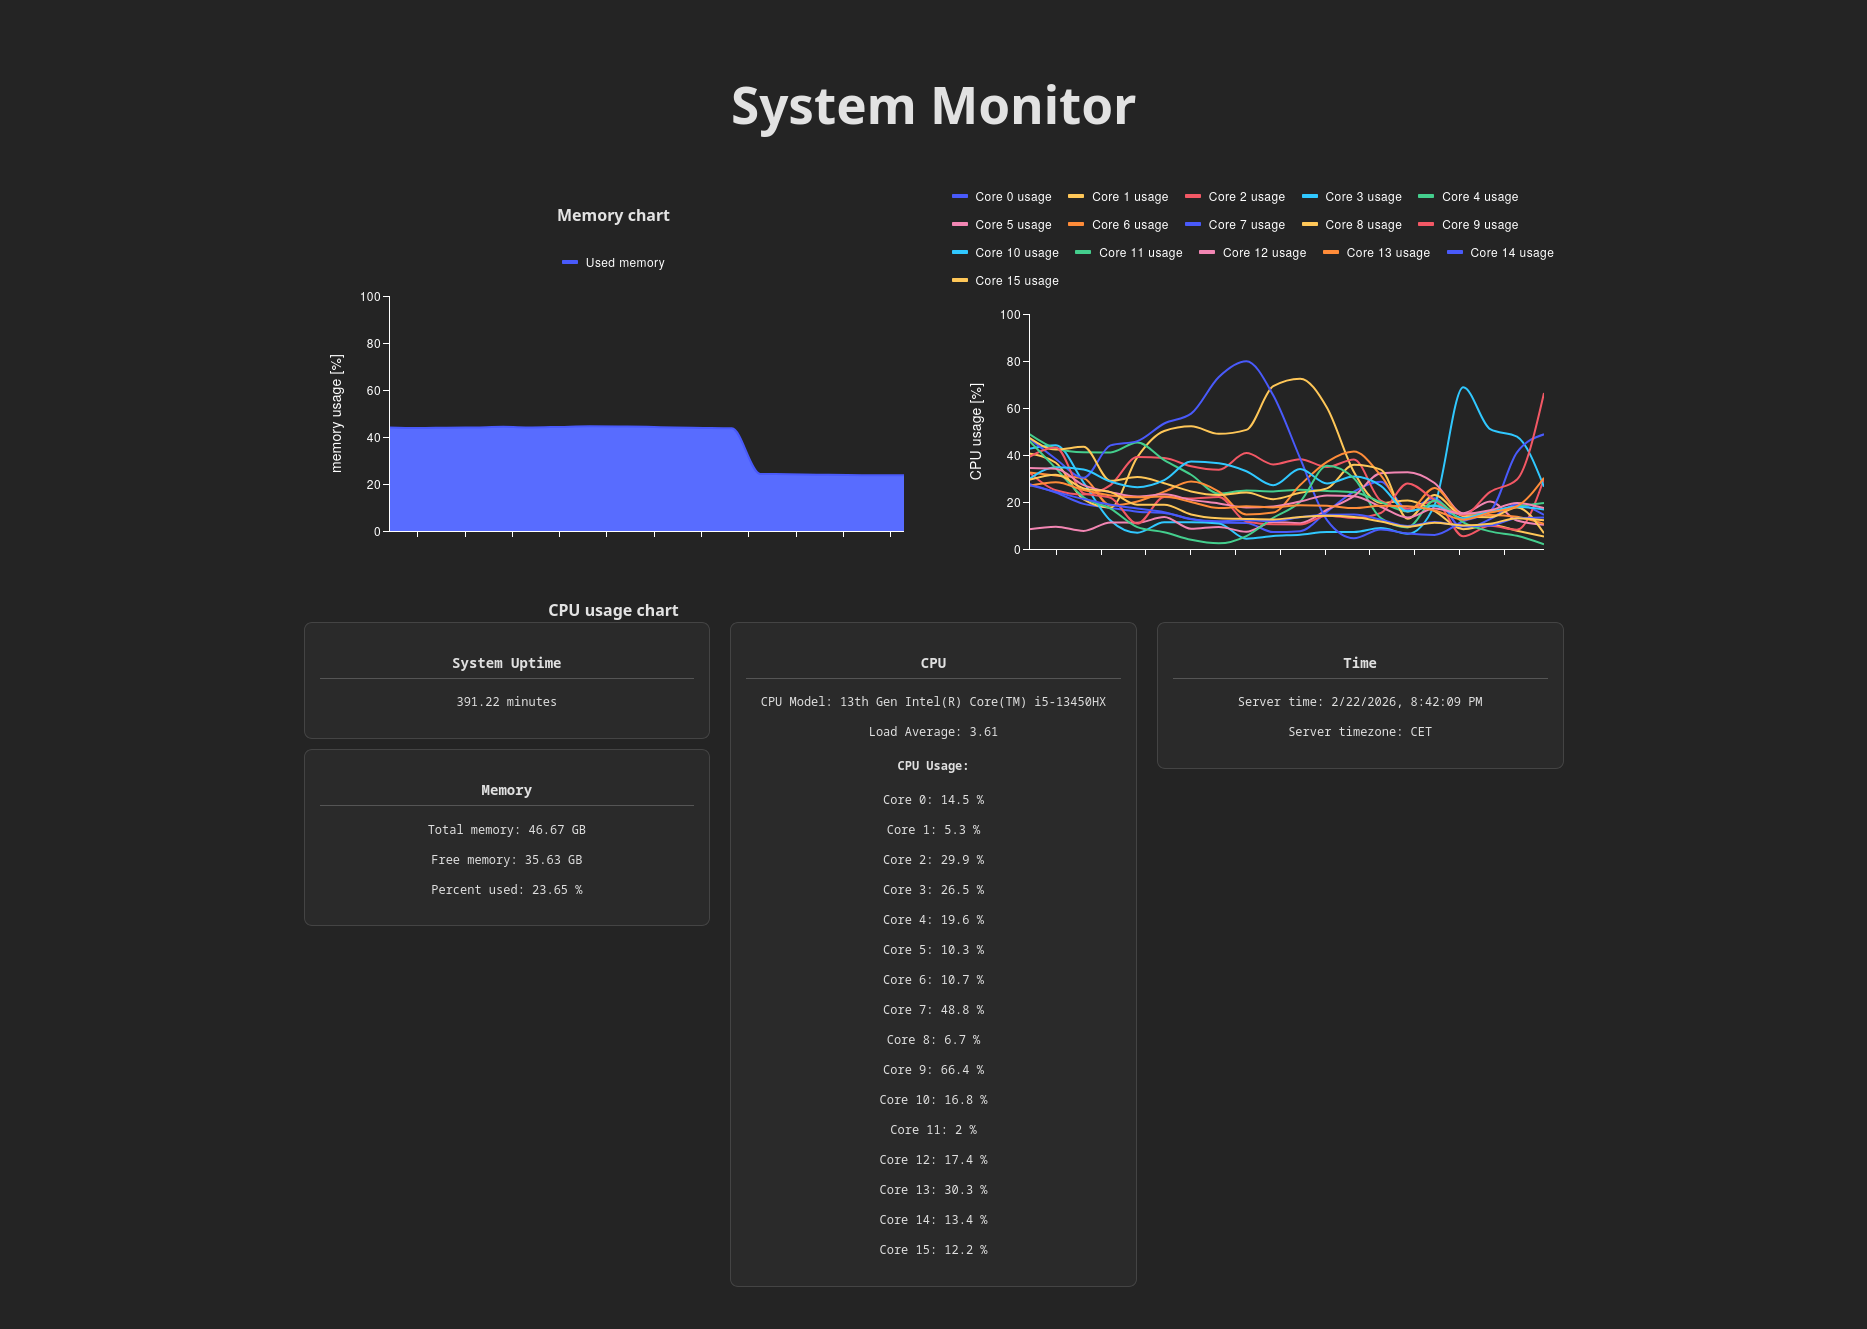
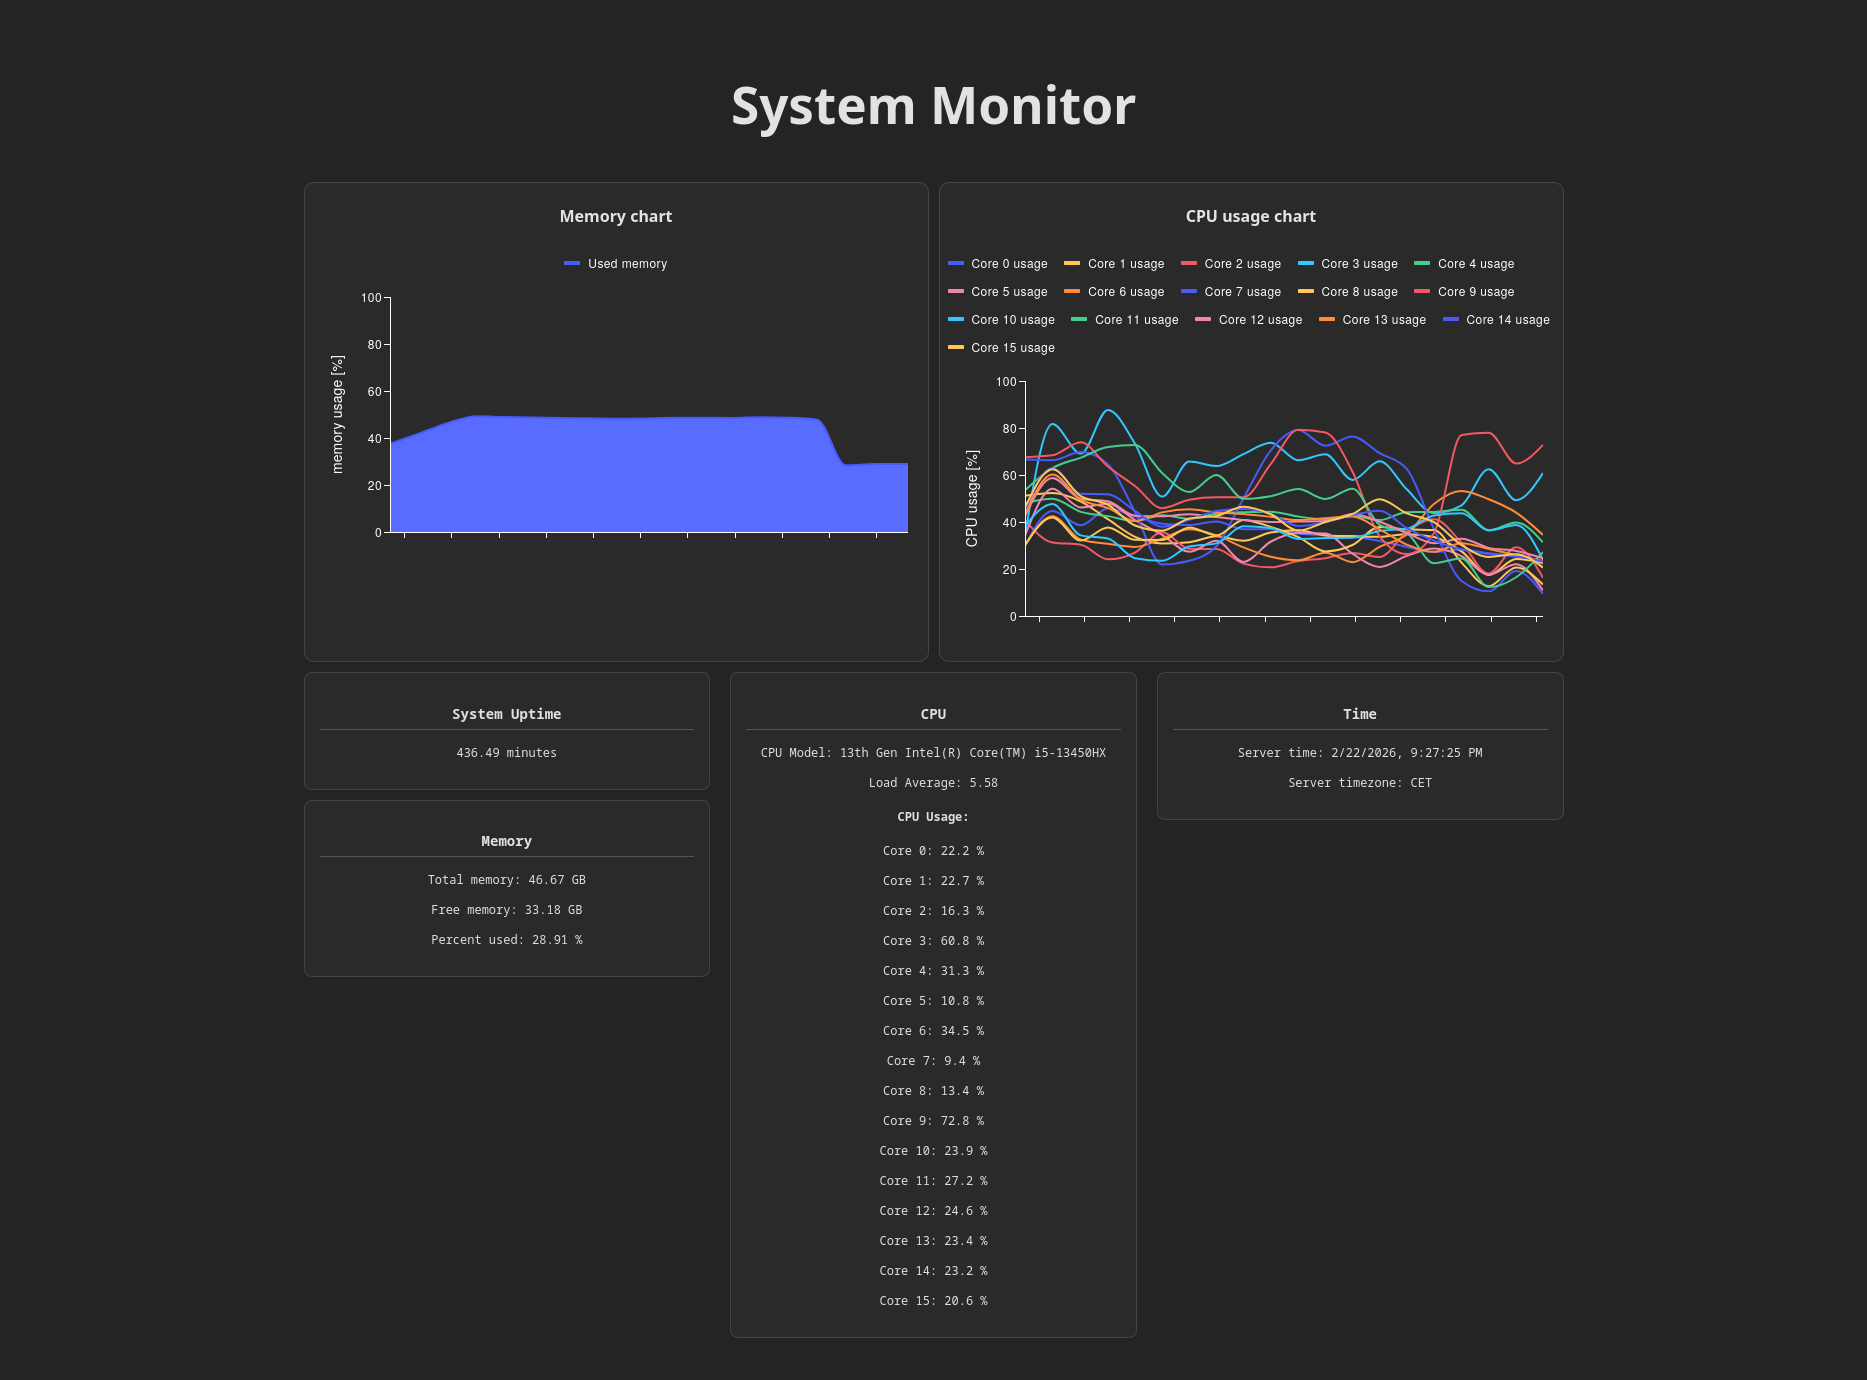
Fix a chart layout bug.

diff --git a/frontend/src/App.jsx b/frontend/src/App.jsx
@@ -76,6 +76,7 @@ function App() {
             <div className="chartsContainer">
                 {Object.keys(memory.history).length > 0 ? (
                     <ThemeProvider theme={darkTheme}>
+                        <div className="chartCard">
                         <h4>Memory chart</h4>
                         <LineChart
                             onClick={handleMemoryChartModalOpen}
@@ -102,12 +103,14 @@ function App() {
                             ]}
                             height={300}
                         />
+                            </div>
                     </ThemeProvider>
                 ) : (
                     <p>Awaiting more data...</p>
                 )}
                 {Object.keys(cpu.history).length > 0 ? (
                     <ThemeProvider theme={darkTheme}>
+                        <div className="chartCard">
                         <h4>CPU usage chart</h4>
                         <LineChart
                             onClick={handleCpuChartModalOpen}
@@ -134,6 +137,7 @@ function App() {
                                 }
                             height={300}
                         />
+                    </div>
                     </ThemeProvider>
                 ) : (
                     <p>Awaiting more data...</p>

diff --git a/frontend/src/App.css b/frontend/src/App.css
@@ -60,9 +60,8 @@ h1 {
         column-count: 3;
     }
     .chartsContainer {
-        display: block;
-        column-gap: 20px;
-        column-count: 2;
+        display: grid;
+        grid-template-columns: 1fr 1fr;
     }
 }
 
@@ -82,4 +81,19 @@ h1 {
   display: flex;
   flex-direction: column;
   box-sizing: border-box;
+}
+
+.chartCard {
+    background-color: #2a2a2a;
+    border: 1px solid #444;
+    border-radius: 10px;
+    break-inside: avoid;
+    margin-bottom: 10px;
+}
+
+.chartCard:nth-child(odd) {
+    margin-right: 5px;
+}
+.chartCard:nth-child(even) {
+    margin-left: 5px;
 }
